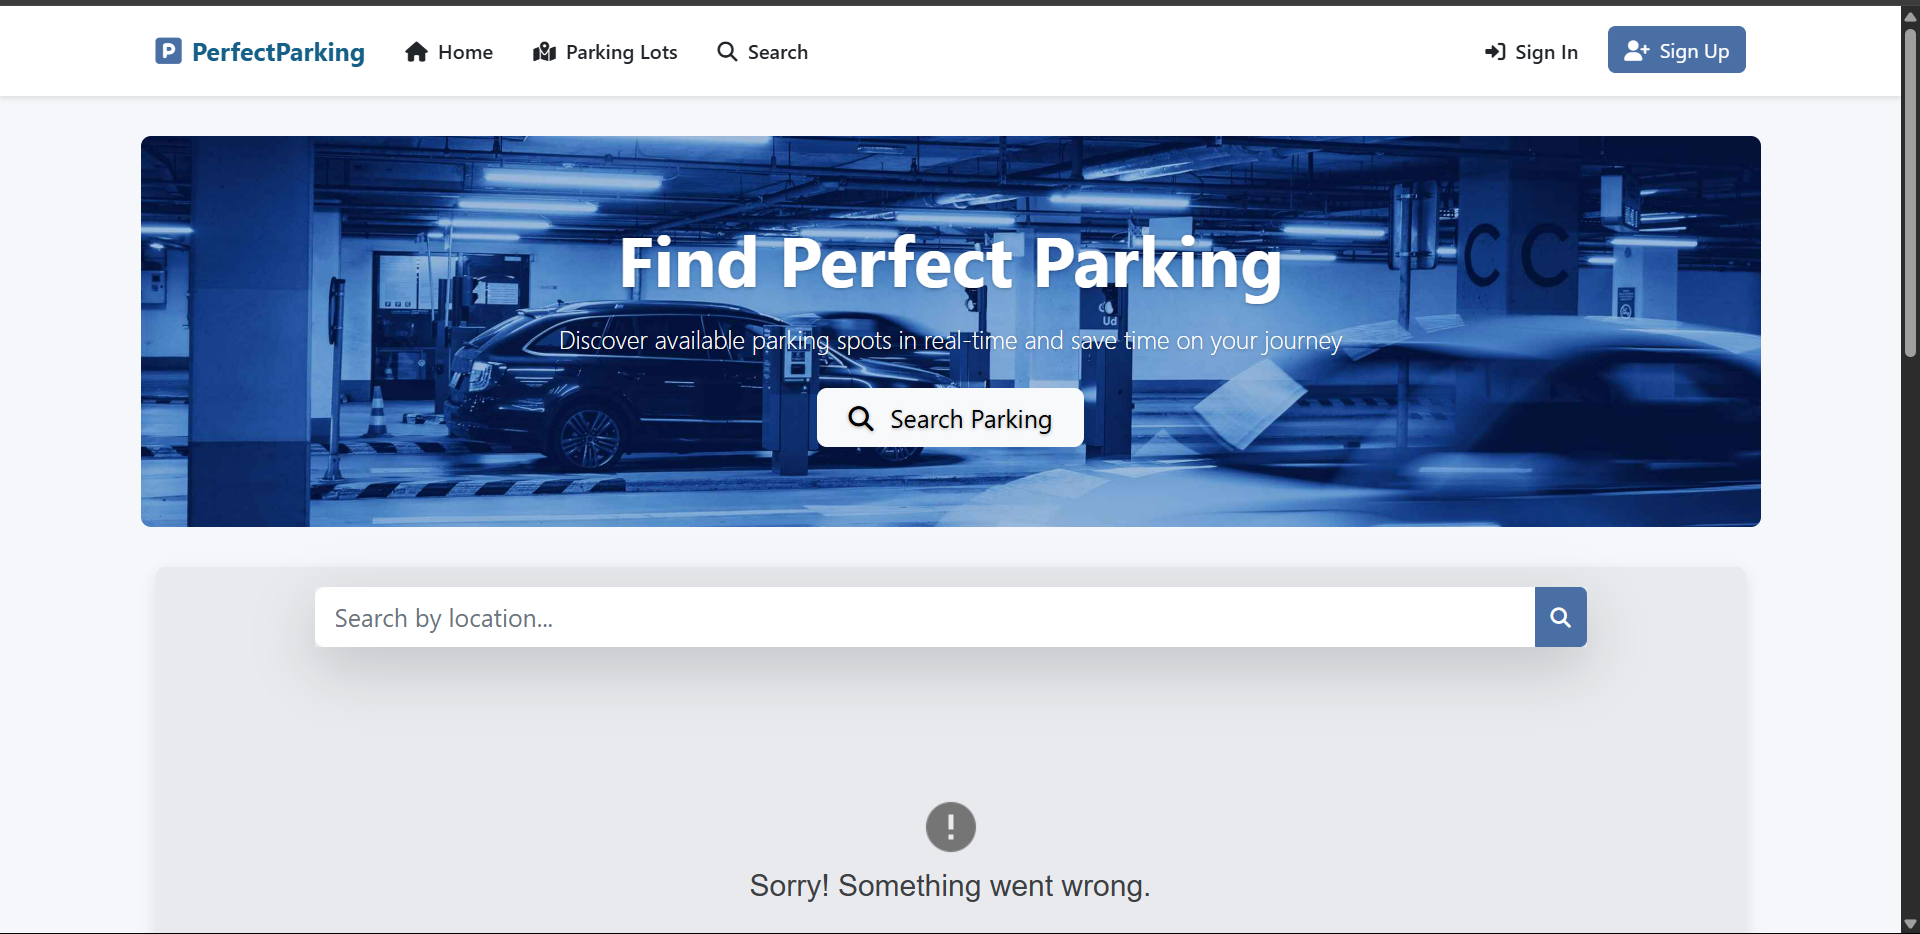
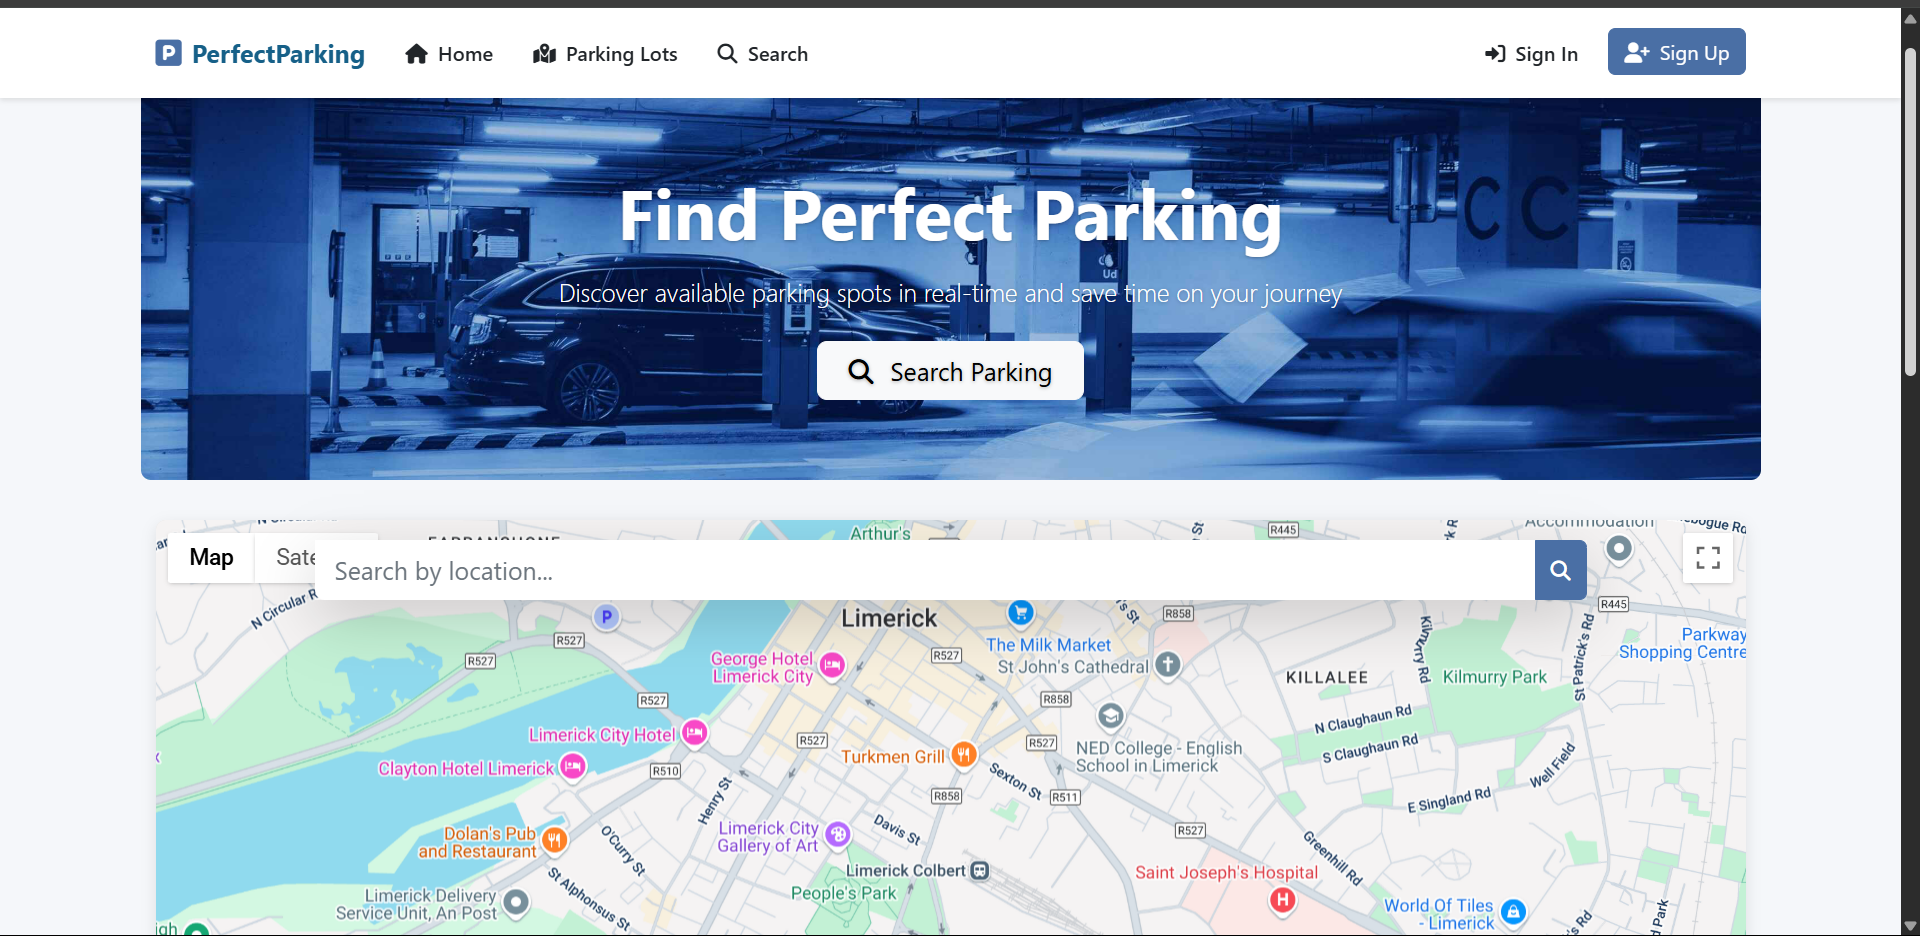
updated readme file

diff --git a/README.md b/README.md
@@ -65,6 +65,28 @@ Built-in user accounts are:
 | admin1         | letmein    | admin | Built in admin account           |
 | parkingMonitor | Letmein1$  | user  | Account for parking monitor apps |
 
+## 🌍 Google Maps API Key Setup
+
+This project uses the **Google Maps JavaScript API** to display maps and location data.
+To keep your API key secure and out of the codebase, we use a `.env` file.
+
+### 📄 Add your API key to a `.env` file
+
+In the root of your project, create a `.env` file and add:
+
+```env
+GOOGLE_MAPS_API_KEY=your-google-maps-api-key
+```
+
+### ⚠ Important
+
+- **Never commit your real API key to GitHub.**
+- Make sure your `.gitignore` includes:
+
+```gitignore
+.env
+```
+
 ### Run the Client Parking Monitor
 
 For the client parking monitor to run, the server must be running.
